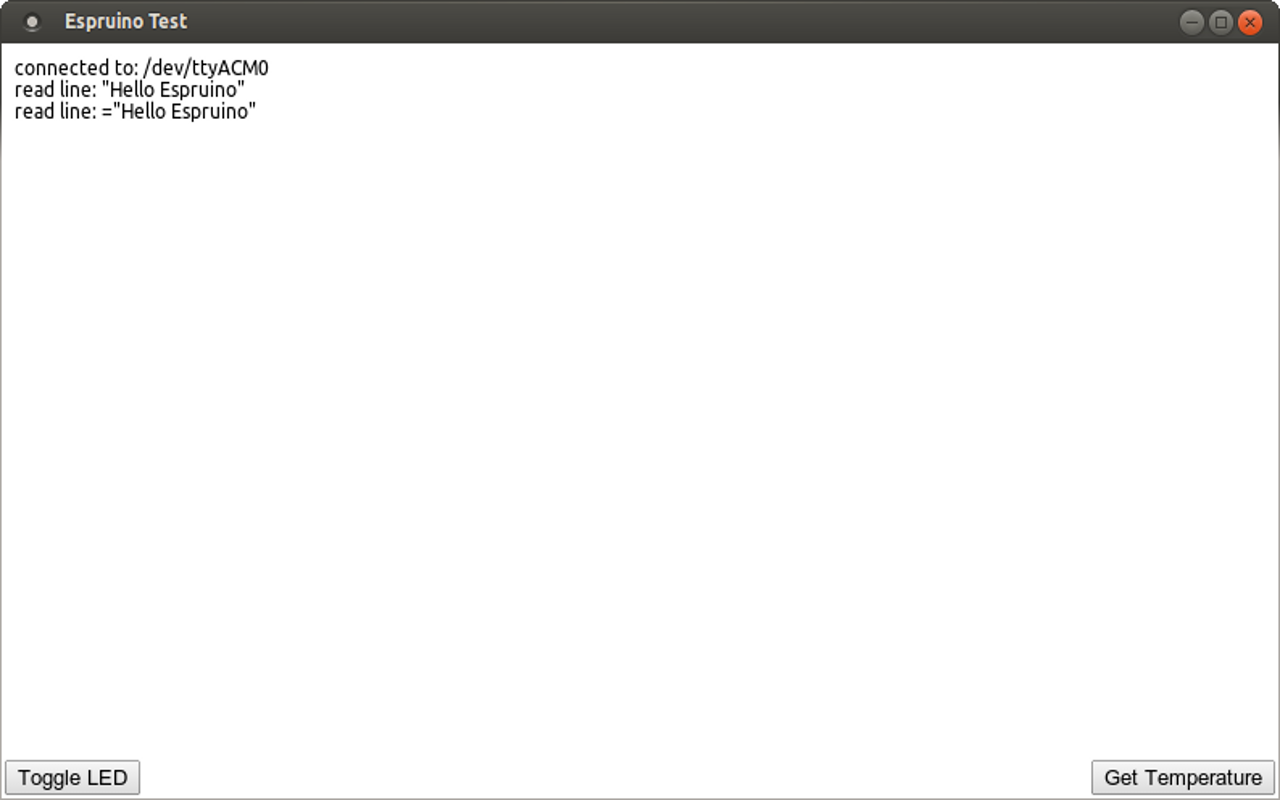
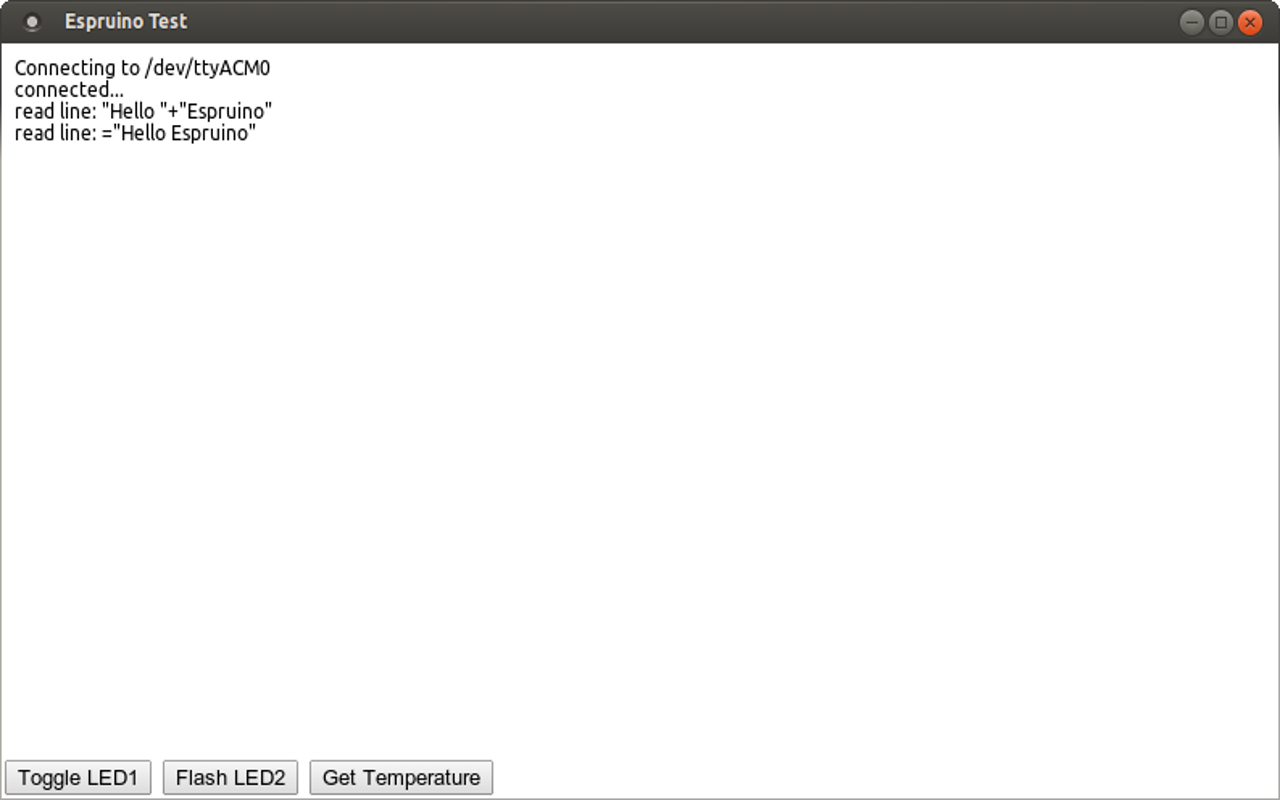
added path drop-down

Changed region(s): [[0.0, 0.0625, 0.2188, 0.1875], [0.0938, 0.9375, 0.4062, 1.0], [0.8438, 0.9375, 1.0, 1.0]]

diff --git a/serial/espruino/main.js b/serial/espruino/main.js
@@ -1,4 +1,3 @@
-const DEVICE_PATH = '/dev/ttyACM0';
 const serial = chrome.serial;
 
 /* Interprets an ArrayBuffer as UTF-8 encoded string data. */
@@ -37,8 +36,8 @@ SerialConnection.prototype.onConnectComplete = function(connectionInfo) {
     return;
   }
   this.connectionId = connectionInfo.connectionId;
-  chrome.serial.onReceive.addListener(this.boundOnReceive);
-  chrome.serial.onReceiveError.addListener(this.boundOnReceiveError);
+  serial.onReceive.addListener(this.boundOnReceive);
+  serial.onReceiveError.addListener(this.boundOnReceiveError);
   this.onConnect.dispatch();
 };
 
@@ -63,6 +62,10 @@ SerialConnection.prototype.onReceiveError = function(errorInfo) {
   }
 };
 
+SerialConnection.prototype.getDevices = function(callback) {
+  serial.getDevices(callback)
+};
+
 SerialConnection.prototype.connect = function(path) {
   serial.connect(path, this.onConnectComplete.bind(this))
 };
@@ -78,17 +81,28 @@ SerialConnection.prototype.disconnect = function() {
   if (this.connectionId < 0) {
     throw 'Invalid connection';
   }
-  serial.disconnect(this.connectionId, function() {});
+  
 };
 
 ////////////////////////////////////////////////////////
 ////////////////////////////////////////////////////////
 
+
+function log(msg) {
+  var buffer = document.querySelector('#buffer');
+  buffer.innerHTML += msg + '<br/>';
+}
+
+
 var connection = new SerialConnection();
 
 connection.onConnect.addListener(function() {
-  log('connected to: ' + DEVICE_PATH);
-  connection.send('"Hello Espruino"\n');
+  log('connected...');
+  // remove the connection drop-down
+  document.querySelector('#connect_box').style.display = 'none';
+  document.querySelector('#control_box').style.display = 'block';
+  // Simply send text to Espruino
+  connection.send('"Hello "+"Espruino"\n');
 });
 
 connection.onReadLine.addListener(function(line) {
@@ -99,23 +113,54 @@ connection.onReadLine.addListener(function(line) {
     document.querySelector('#get_temperature').innerHTML = "Temp = "+line.substr(12);
 });
 
-connection.connect(DEVICE_PATH);
+// Populate the list of available devices
+connection.getDevices(function(ports) {
+  // get drop-down port selector
+  var dropDown = document.querySelector('#port_list');
+  // clear existing options
+  dropDown.innerHTML = "";
+  // add new options
+  ports.forEach(function (port) {
+    var displayName = port["displayName"] + "("+port.path+")";
+    if (!displayName) displayName = port.path;
+    
+    var newOption = document.createElement("option");
+    newOption.text = displayName;
+    newOption.value = port.path;
+    dropDown.appendChild(newOption);
+  });
+});
 
-function log(msg) {
-  var buffer = document.querySelector('#buffer');
-  buffer.innerHTML += msg + '<br/>';
-}
+// Handle the 'Connect' button
+document.querySelector('#connect_button').addEventListener('click', function() {
+  // get the device to connect to
+  var dropDown = document.querySelector('#port_list');
+  var devicePath = dropDown.options[dropDown.selectedIndex].value;
+  // connect
+  log("Connecting to "+devicePath);
+  connection.connect(devicePath);
+});
 
-// Toggle LED
+////////////////////////////////////////////////////////
+
+// Toggle LED state
 var is_on = false;
 document.querySelector('#toggle').addEventListener('click', function() {
   is_on = !is_on;
   connection.send("digitalWrite(LED1, "+(is_on ? '1' : '0')+");\n");
 });
 
+// Flash 3 times
+var is_on = false;
+document.querySelector('#flash').addEventListener('click', function() {
+  is_on = !is_on;
+  connection.send("l=0; var interval = setInterval(function() { digitalWrite(LED2, l&1); if (++l>6) clearInterval(interval); }, 200);\n");
+});
+
 // Get temperature
 document.querySelector('#get_temperature').addEventListener('click', function() {
   connection.send("console.log('TEMPERATURE='+E.getTemperature().toFixed(1));\n");
 });
+
 
 

diff --git a/serial/espruino/index.html b/serial/espruino/index.html
@@ -1,5 +1,17 @@
-<button id="toggle" style="position: absolute; left : 0; bottom: 0">Toggle LED</button>
-<button id="get_temperature" style="position: absolute; right: 0; bottom: 0">Get Temperature</button>
-<div id="buffer">
+<!-- Box for choosing the port to connect to -->
+<div id="connect_box" style="position: absolute; left : 0; top: 0">
+  <select id="port_list"><option>Please Wait...</option></select>
+  <button id="connect_button">Connect</button>
 </div>
+
+<!-- Buttons -->
+<div id="control_box" style="position: absolute; left : 0; bottom: 0; display : none;">
+  <button id="toggle">Toggle LED1</button>
+  <button id="flash">Flash LED2</button>
+  <button id="get_temperature">Get Temperature</button>
+</div>
+<!-- Box for log messages -->
+<div id="buffer" style="width:100%;height:100%;overflow:auto;">
+</div>
+<!-- Include main code -->
 <script src="main.js"></script>

diff --git a/serial/espruino/README.md b/serial/espruino/README.md
@@ -2,9 +2,11 @@
 
 This sample lets you toggle the state of an LED on an [Espruino JavaScript board](http://www.espruino.com) as well as reading back its current temperature. The board runs JavaScript, so it's easy to control it by sending JavaScript commands directly to it as strings.
 
-1. Ensure that the line `DEVICE_PATH=` at the top of `main.js` matches Espruino's path
+1. Connect the Espruino Board
 2. Install and launch this packaged app.
-3. Press either one of the two buttons
+3. Make sure the drop-down box shows the correct serial device
+4. Click `Connect`
+3. Press the buttons to either toggle the state of an LED, flash it 3 times, or read back the chip's current temperature.
 
 
 ## APIs
